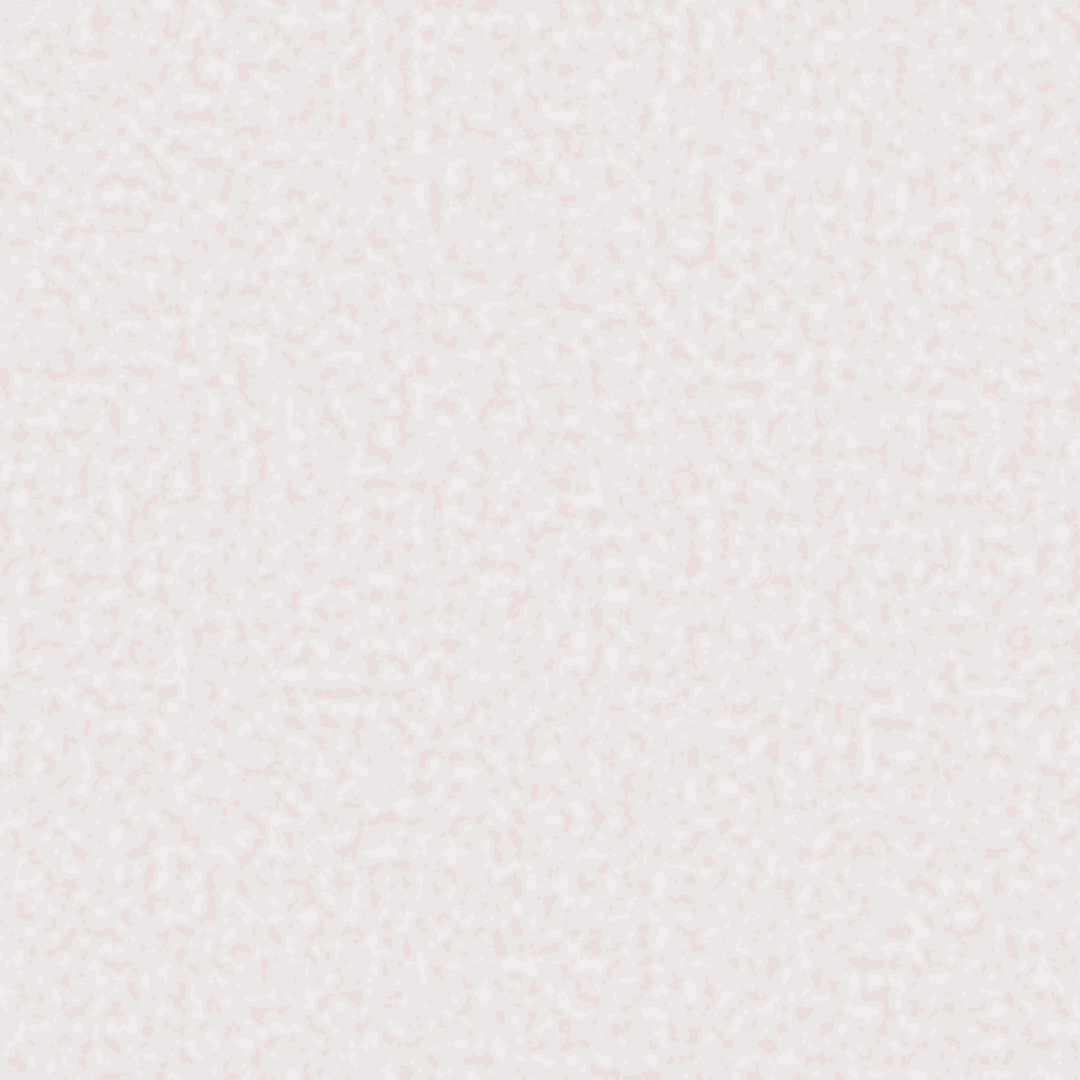
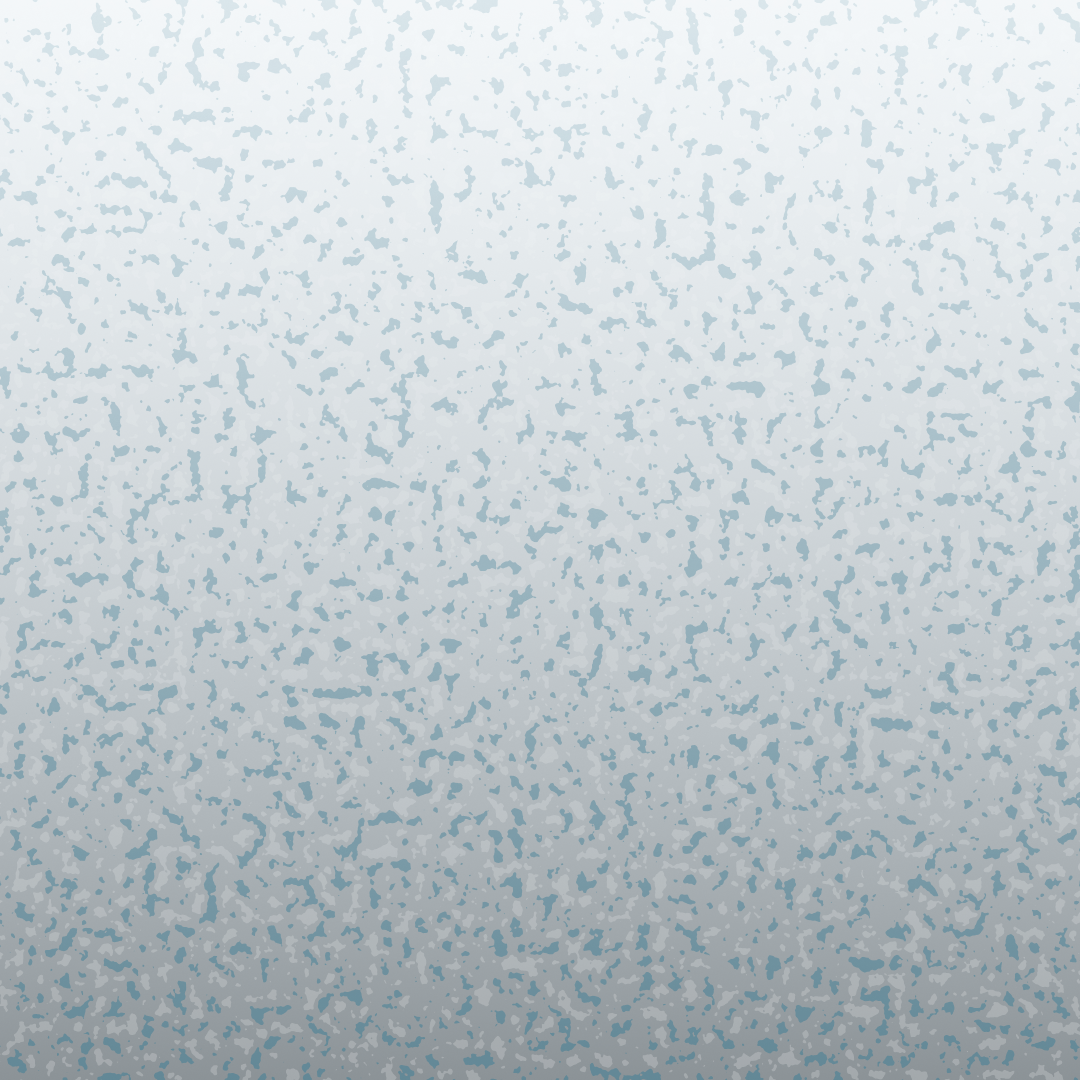
More styling updates and removed unnecessary styles

diff --git a/src/index.css b/src/index.css
@@ -7,6 +7,7 @@
 @import url("https://cdn.jsdelivr.net/npm/bootstrap-icons@1.8.3/font/bootstrap-icons.css");
 
 :root{
+  height: 100%;
   --box-shadow: rgba(0, 0, 0, 0.05) 0px 6px 24px 0px, rgba(0, 0, 0, 0.08) 0px 0px 0px 1px;
 }
 
@@ -18,49 +19,29 @@
   text-decoration: none;
   list-style: none;
 }
+
 .App{
   min-height: 100vh;
+  padding-top: 70px;
   background-image: url('/src/assets/bg.png');
-}
-
-.light{
-  background-color: #FFFFFF;
-  transition: all 500ms;  
-}
-
-.medium{
-  background-color: #EFEFEF;
-  transition: all 500ms;
-}
-
-.dark{
-  background-color: #15202B;
-  transition: all 500ms;
-}
-
-.gradientOne{
-  background: linear-gradient(90deg, hsla(191, 75%, 60%, 1) 0%, hsla(248, 87%, 36%, 1) 100%);
-}
-.gradientTwo{
-  background: linear-gradient(235deg, #FFFFFF 0%, #000F25 100%), linear-gradient(180deg, #6100FF 0%, #000000 100%), linear-gradient(235deg, #FFA3AC 0%, #FFA3AC 40%, #00043C calc(40% + 1px), #00043C 60%, #005D6C calc(60% + 1px), #005D6C 70%, #00C9B1 calc(70% + 1px), #00C9B1 100%), linear-gradient(125deg, #FFA3AC 0%, #FFA3AC 40%, #00043C calc(40% + 1px), #00043C 60%, #005D6C calc(60% + 1px), #005D6C 70%, #00C9B1 calc(70% + 1px), #00C9B1 100%);
-  background-blend-mode: soft-light, screen, darken, normal;
-}
-
-.gradientThree{
-  background: linear-gradient(125deg, #FFFFFF 0%, #000000 100%), linear-gradient(200deg, #FFD9E8 0%, #FFD9E8 50%, #DE95BA calc(50% + 1px), #DE95BA 60%, #7F4A88 calc(60% + 1px), #7F4A88 75%, #4A266A calc(75% + 1px), #4A266A 100%), linear-gradient(113deg, #FFD9E8 0%, #FFD9E8 40%, #DE95BA calc(40% + 1px), #DE95BA 50%, #7F4A88 calc(50% + 1px), #7F4A88 70%, #4A266A calc(70% + 1px), #4A266A 100%);
-  background-blend-mode: overlay, overlay, normal;
+  background-size: cover;
+  background-repeat: no-repeat;
+  background-position: center;
 }
 
 header{
-  min-height: 70px;
+  height: 70px;
+  top: 0;
+  left: 0;
+  right: 0;
   display: flex;
   align-items: center;
-  justify-content: space-between;
-  padding: 15px;
-  margin-bottom: 70px;
-  background-color: #FFFFFF;
-  border-radius: 5px;
+  justify-content: center;
+  padding: 0 15px;
+  background-color: #ffffffb1;
   box-shadow: var(--box-shadow);
+  position: fixed;
+  z-index: 1000;
 }
 
 header .logo{
@@ -80,25 +61,11 @@ header .logo span{
   color: #525252;
 }
 
-header .themeSelector span{
-  height: 20px;
-  width: 20px;
-  border-radius: 50%;
-  display: inline-block;
-  margin-left: 5px;
-  cursor: pointer;
-  border: 1px solid #dfdfdf;
-}
-
-header .themeSelector .activeTheme{
-  height: 30px;
-  width: 30px;
-}
-
 .addTask {
   padding: 20px 15px;
   border-radius: 5px;
-  background-image: linear-gradient(to bottom, #efdfd9, #c5afb1d7);
+  background-color: #81a6ac;
+  /* background-image: linear-gradient(to bottom, #efdfd9, #c5afb1d7); */
   max-width: 500px;
   margin: 20px auto;
   box-shadow: var(--box-shadow);
@@ -122,7 +89,7 @@ header .themeSelector .activeTheme{
 }
 
 .addTask form button{
-  background-color: #9c7867ca;
+  background-color: #46666b;
   color: #FFFFFF;
   border: none;
   padding: 5px 20px;
@@ -132,13 +99,14 @@ header .themeSelector .activeTheme{
 }
 
 .addTask form button:hover{
-  background-color: #958881ca;
+  background-color: #a7b6b9;
 }
 
 .showTask{
   padding: 20px 15px;
   border-radius: 5px;
-  background-image: linear-gradient(to bottom, #efdfd9, #c5afb1d7);
+  background-color: #81a6ac;
+  /* background-image: linear-gradient(to bottom, #efdfd9, #c5afb1d7); */
   margin: 20px auto;
   box-shadow: var(--box-shadow);
   display: flex;
@@ -174,7 +142,7 @@ header .themeSelector .activeTheme{
 }
 
 .showTask .clearAll{
-  background-color: #9c7867ca;
+  background-color: #46666b;
   color: #FFFFFF;
   padding: 5px 10px;
   border-radius: 5px;
@@ -182,7 +150,7 @@ header .themeSelector .activeTheme{
 }
 
 .showTask .clearAll:hover{
-  background-color: #958881ca;
+  background-color: #a7b6b9;
 }
 
 .showTask ul{
@@ -200,6 +168,7 @@ header .themeSelector .activeTheme{
   display: flex;
   gap: 5px;
   min-width: 350px;
+  max-width: 350px;
   background-color: #d5d2d2b1;
   box-shadow: var(--box-shadow);
   border-radius: 5px;

diff --git a/src/components/ShowTask.js b/src/components/ShowTask.js
@@ -22,18 +22,17 @@ export const ShowTask = ({tasklist, setTasklist, task, setTask}) => {
             { tasklist.map((todo) => (
                 <li key={todo.id}>
                     <p>
-                        <label class="relative flex items-center cursor-pointer group">
+                        <label class="relative flex items-start cursor-pointer group">
                         <input class="peer sr-only" type="checkbox" />
                         <div
-                            class="w-8 h-8 rounded-lg bg-white border-2 border-stone-500 transition-all duration-300 ease-in-out peer-checked:bg-gradient-to-br from-stone-600 to-stone-400 
+                            class="w-8 h-8 shrink-0 rounded-lg bg-white border-2 border-stone-500 transition-all duration-300 ease-in-out peer-checked:bg-gradient-to-br from-stone-600 to-stone-400 
                             peer-checked:border-0 peer-checked:rotate-12 after:content-[''] after:absolute after:top-1/2 after:left-1/2 after:-translate-x-1/2 after:-translate-y-1/2 after:w-5 after:h-5 after:opacity-0 
[1 lines of base64/hex data omitted]
                             after:bg-contain after:bg-no-repeat peer-checked:after:opacity-100 after:transition-opacity after:duration-300 hover:shadow-[0_0_15px_rgba(87,83,78,0.7)]"
                         ></div>
-                        <span class="ml-3 text-lg font-medium text-gray-900">{todo.name}</span>
+                        <span class="mx-3 text-lg font-medium text-gray-900 inline-block whitespace-normal break-all">{todo.name}</span>
                         </label>
-                        {/* <span className="name">{todo.name}</span> */}
-                        <span className="time">{todo.time}</span>
+                        <span className="time mt-4 ml-">{todo.time}</span>
                     </p>
                     <i onClick={() => handleEdit(todo.id)} className="bi bi-pencil-square"></i>
                     <i onClick={() => handleDelete(todo.id)} className="bi bi-trash3"></i>
